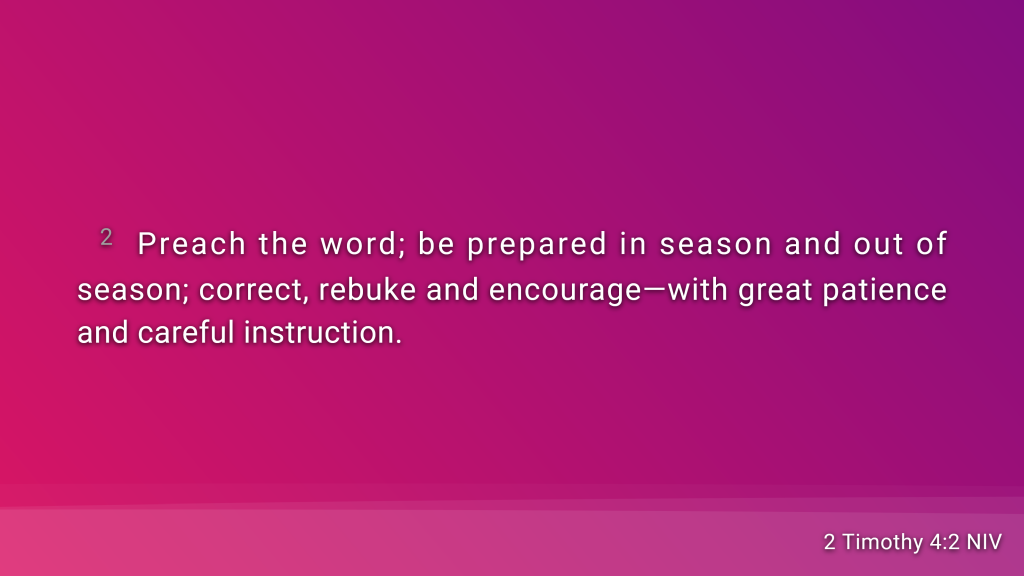
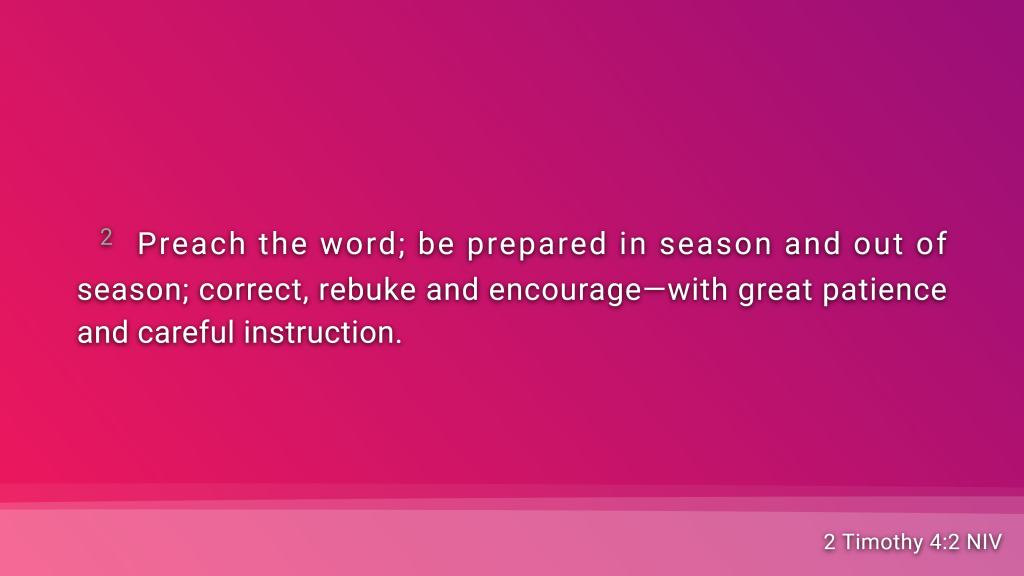
Theme updates (Projector)

Changed region(s): [[0.0, 0.8438, 1.0, 1.0]]

diff --git a/backgrounds/waves-pumpkin-inner.css b/backgrounds/waves-pumpkin-inner.css
@@ -21,7 +21,7 @@ body {
 }
 
 .wave {
-    background: rgb(255 255 255 / 10%);
+    background: rgb(255 255 255 / 20%);
     border-radius: 3000% 3000% 0 0;
     position: fixed;
     width: 400%;

diff --git a/backgrounds/waves-donut-inner.css b/backgrounds/waves-donut-inner.css
@@ -21,7 +21,7 @@ body {
 }
 
 .wave {
-    background: rgb(255 255 255 / 9%);
+    background: rgb(255 255 255 / 20%);
     border-radius: 3000% 3000% 0 0;
     position: fixed;
     width: 400%;
